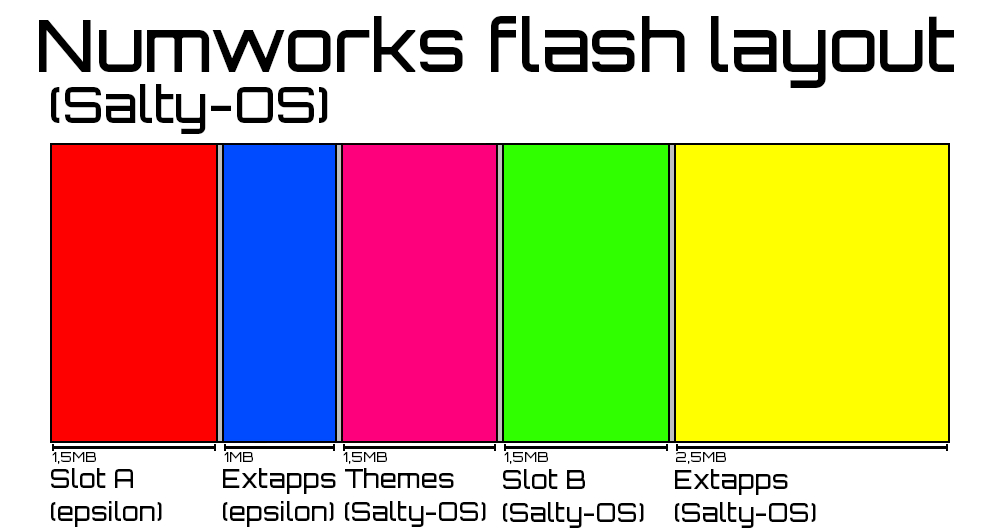
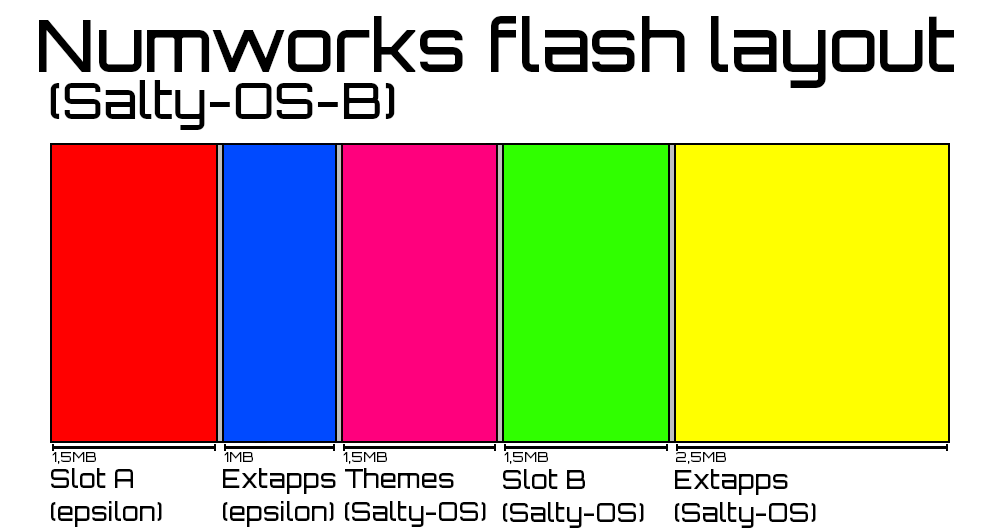
Set themes address at the end of the flash for SaltyOS on slot A

Changed region(s): [[0.031, 0.1509, 0.403, 0.2717]]

diff --git a/shared/ion/src/device/include/n0110/config/board.h b/shared/ion/src/device/include/n0110/config/board.h
@@ -150,10 +150,12 @@ constexpr int NumberOfMPUSectors = 8;
 
 /*--------------------------------------------*/
 
-// 1.5MB at the end of ExtApp A
+// 1.5MB at the end of ExtApp A for slot B or at the end of the flash for slot A
 constexpr uint32_t ThemeAreaSize = 0x180000; // 1.5MiB
-constexpr uint32_t ThemeAreaStart = ExternalFlashOrigin + ExternalFlashLength / 2 - ThemeAreaSize - StandardExternalFlashSectorLength; // 0x90000000 + 0x400000 - 0x180000 - 0x10000 = 0x90270000
-constexpr uint32_t ThemeAreaEnd = ThemeAreaStart + ThemeAreaSize;
+constexpr uint32_t ThemeAreaStartSlotA = ExternalFlashOrigin + ExternalFlashLength - ThemeAreaSize - StandardExternalFlashSectorLength; // 0x90000000 + 0x800000 - 0x180000 - 0x10000 = 0x90670000
+constexpr uint32_t ThemeAreaStartSlotB = ExternalFlashOrigin + ExternalFlashLength / 2 - ThemeAreaSize - StandardExternalFlashSectorLength; // 0x90000000 + 0x400000 - 0x180000 - 0x10000 = 0x90270000
+constexpr uint32_t ThemeAreaEndSlotA = ThemeAreaStartSlotA + ThemeAreaSize;
+constexpr uint32_t ThemeAreaEndSlotB = ThemeAreaStartSlotB + ThemeAreaSize;
 
 constexpr uint32_t ThemeAreaHeaderMagic = 0x87654321;
 constexpr uint32_t ThemeAreaHeaderVersion = 4;

diff --git a/shared/ion/src/device/include/n0115/config/board.h b/shared/ion/src/device/include/n0115/config/board.h
@@ -151,10 +151,12 @@ constexpr int NumberOfMPUSectors = 8;
 
 /*--------------------------------------------*/
 
-// 1.5MB at the end of ExtApp A
+// 1.5MB at the end of ExtApp A for slot B or at the end of the flash for slot A
 constexpr uint32_t ThemeAreaSize = 0x180000; // 1.5MiB
-constexpr uint32_t ThemeAreaStart = ExternalFlashOrigin + ExternalFlashLength / 2 - ThemeAreaSize - StandardExternalFlashSectorLength; // 0x90000000 + 0x400000 - 0x180000 - 0x10000 = 0x90270000
-constexpr uint32_t ThemeAreaEnd = ThemeAreaStart + ThemeAreaSize;
+constexpr uint32_t ThemeAreaStartSlotA = ExternalFlashOrigin + ExternalFlashLength - ThemeAreaSize - StandardExternalFlashSectorLength; // 0x90000000 + 0x800000 - 0x180000 - 0x10000 = 0x90670000
+constexpr uint32_t ThemeAreaStartSlotB = ExternalFlashOrigin + ExternalFlashLength / 2 - ThemeAreaSize - StandardExternalFlashSectorLength; // 0x90000000 + 0x400000 - 0x180000 - 0x10000 = 0x90270000
+constexpr uint32_t ThemeAreaEndSlotA = ThemeAreaStartSlotA + ThemeAreaSize;
+constexpr uint32_t ThemeAreaEndSlotB = ThemeAreaStartSlotB + ThemeAreaSize;
 
 constexpr uint32_t ThemeAreaHeaderMagic = 0x87654321;
 constexpr uint32_t ThemeAreaHeaderVersion = 4;

diff --git a/shared/ion/src/device/include/n0120/config/board.h b/shared/ion/src/device/include/n0120/config/board.h
@@ -155,10 +155,12 @@ constexpr int NumberOfMPUSectors = 8;
 
 /*--------------------------------------------*/
 
-// 1.5MB at the end of ExtApp A
+// 1.5MB at the end of ExtApp A for slot B or at the end of the flash for slot A
 constexpr uint32_t ThemeAreaSize = 0x180000; // 1.5MiB
-constexpr uint32_t ThemeAreaStart = ExternalFlashOrigin + ExternalFlashLength / 2 - ThemeAreaSize - StandardExternalFlashSectorLength; // 0x90000000 + 0x400000 - 0x180000 - 0x10000 = 0x90270000
-constexpr uint32_t ThemeAreaEnd = ThemeAreaStart + ThemeAreaSize;
+constexpr uint32_t ThemeAreaStartSlotA = ExternalFlashOrigin + ExternalFlashLength - ThemeAreaSize - StandardExternalFlashSectorLength; // 0x90000000 + 0x800000 - 0x180000 - 0x10000 = 0x90670000
+constexpr uint32_t ThemeAreaStartSlotB = ExternalFlashOrigin + ExternalFlashLength / 2 - ThemeAreaSize - StandardExternalFlashSectorLength; // 0x90000000 + 0x400000 - 0x180000 - 0x10000 = 0x90270000
+constexpr uint32_t ThemeAreaEndSlotA = ThemeAreaStartSlotA + ThemeAreaSize;
+constexpr uint32_t ThemeAreaEndSlotB = ThemeAreaStartSlotB + ThemeAreaSize;
 
 constexpr uint32_t ThemeAreaHeaderMagic = 0x87654321;
 constexpr uint32_t ThemeAreaHeaderVersion = 4;

diff --git a/epsilon/apps/theme_manager.cpp b/epsilon/apps/theme_manager.cpp
@@ -11,6 +11,16 @@
 #include "../../shared/ion/src/simulator/shared/theme_area.h"
 #endif
 
+#if PLATFORM_DEVICE
+namespace Ion {
+namespace Device {
+namespace Board {
+bool isRunningSlotA();  // defined in ion/src/device/userland/drivers/board_dual_slots.cpp
+}
+}
+}
+#endif
+
 using namespace Ion::Device::Board::Config;
 
 #if !PLATFORM_DEVICE
@@ -60,7 +70,7 @@ void ThemeManager::init() {
 
 uintptr_t ThemeManager::areaBase() {
 #if PLATFORM_DEVICE
-  return ThemeAreaStart;
+  return Ion::Device::Board::isRunningSlotA() ? ThemeAreaStartSlotA: ThemeAreaStartSlotB;
 #else
   return reinterpret_cast<uintptr_t>(Ion::Simulator::ThemeArea::data());
 #endif

diff --git a/epsilon/apps/salty_settings/theme_helpers.h b/epsilon/apps/salty_settings/theme_helpers.h
@@ -60,7 +60,7 @@ inline bool ReadWallpaperHeader(const ThemeEntry* e, WallpaperHeader* out) {
   if (e == nullptr || !e->isWallpaper || e->wallpaperOffset == 0) {
     return false;
   }
-  const uintptr_t base = Ion::Device::Board::Config::ThemeAreaStart +
+  const uintptr_t base = ThemeManager::areaBase() +
                         e->wallpaperOffset;
   out->width = ReadUnaligned32(base);
   out->height = ReadUnaligned32(base + 4);

diff --git a/README.md b/README.md
@@ -19,11 +19,15 @@ NumWorks calculators boot slot A by default, then you can access Slot B with a l
 
 If the userland crashes or if you reset it, the calculator falls back to booting slot A, but slot B isn't wiped in the process, so the custom userland is still there and can be re-launched afterward (at least on latest versions of epsilon).
 
-This has been tested on the `n0120` with epsilon `26.3.0` so far. If you try it on another model, please open an issue to report whether it worked or not.
+Here are some example of the layout of the calculator flash:
+- On classic epsilon
+<img src="github_assets/slots.png" width=400 alt="slots-default">
 
-<img src="github_assets/slots.png" width=320 alt="slots-default"><br>
-<img src="github_assets/slots_salty_os.png" width=320 alt="slots-salty-os">
+- With SaltyOS on slot B for locked calculator
+<img src="github_assets/slots_salty_os.png" width=400 alt="slots-salty-os">
 
+- With SaltyOS on slot A for unlocked calculator
+<img src="github_assets/slots_salty_os_unlocked.png" width=400 alt="slots-salty-os">
 
 The pythons scripts are in ram, so the layout of the external flash can't affect them.
 The bootloader is in another flash, the internal flash.
@@ -33,6 +37,7 @@ See more at https://nwagyu.org/reference/firmware/
 ## Functionalities
 
 The userland is build with a custom onboarding and external apps allowed.
+It supports locked n0110, n0115, n0120 and also unlocked n0110 (It has not been tested on unlocked n0115 or n0120, but it could work.) with Epsilon kernel 26.4.0.
 
 ### Current
 
@@ -43,6 +48,7 @@ The userland is build with a custom onboarding and external apps allowed.
 - Custom color palette per theme.
 - Toggle display of external apps.
 - Salty-OS settings app (About and Themes), its information comes from the repository (Makefile, git, `themes/` folder) and from the Theme Area.
+- Symbolic calculation
 - French by default, and no Python script preinstalled.
 
 Everything customizable via a website.
@@ -52,6 +58,10 @@ Everything customizable via a website.
 Open a pull request if you want to add a feature.
 
 ## How to install
+
+If you're unsure what to choose, choose locked calculator.
+
+<details><summary><b>Locked calculator</b></summary>
 
 ### Update the calculator twice
 
@@ -81,6 +91,34 @@ Open a pull request if you want to add a feature.
 - Connect your calculator.
 - Create your themes.
 - Click install.
+</details>
+
+<details><summary><b>Unlocked calculator</b></summary>
+
+### Flash Epsilon kernel
+
+- Go to the [Upsilon installer](https://getupsilon.web.app/install).
+- Connect your calculator.
+- Choose "Custom binpack".
+- Download epsilon kernel 26.4.0 from the official website with [this guide](https://nwagyu.org/reference/others/downloading-epsilon.html) or from the [archive](https://git.gabizar.top/GabiZar/Epsilon-Archive/releases/tag/26.4.0)
+- Flash it at address `0x90000000` for slot A and `0x90400000` for slot B
+
+### Userland
+
+- Go to the [Upsilon installer](https://getupsilon.web.app/install).
+- Connect your calculator.
+- Choose "Custom binpack".
+- Download SaltyOS from the [latest release](https://github.com/SaltyMold/Salty-OS/releases/latest)
+- Flash it at address `0x90020000` for slot A and `0x90420000` for slot B
+
+### Themes
+
+- Go to the [Upsilon installer](https://getupsilon.web.app/install).
+- Connect your calculator.
+- Choose "Custom binpack".
+- Create your themes with the python script `themes/generate_theme.py` of this repo.
+- Flash `theme_area.bin` at `0x90670000` for slot A and at `0x90270000` for slot B.
+</details>
 
 ## How to use
 
